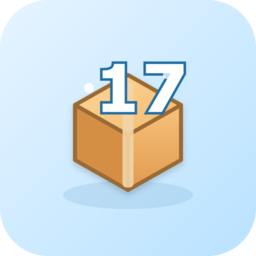
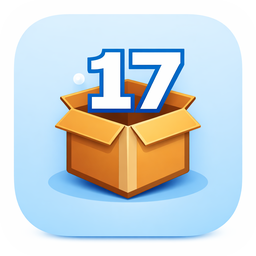
feat(17track_app): actualizar addon y agregar documentacion

diff --git a/17track_app/DOCS.md b/17track_app/DOCS.md
@@ -1,0 +1,64 @@
+# 17Track App - Documentacion
+
+## Opciones
+
+```yaml
+port: 8787
+bg_enabled: true
+bg_interval_min: 15
+bg_normal_interval_min: 45
+bg_slow_hours: "8,20"
+bg_delay_ms: 5000
+ha_url: "http://supervisor/core"
+ha_script: "jarvis_17track_notify"
+track17_token: "..."
+ha_token: "..."
+```
+
+## Variables y comportamiento
+
+- `track17_token` (obligatorio): token para API 17Track.
+- `ha_token` (recomendado/obligatorio si usas notificaciones a HA): token de HA.
+- `ha_url`: endpoint base de HA para servicios (`/api/services/...`).
+- `bg_enabled`: activa refresco periodico.
+- `bg_interval_min`: frecuencia del scheduler en minutos.
+- `bg_normal_interval_min`: refresco normal cuando hay pendientes.
+- `bg_slow_hours`: horas (CSV) de refresco cuando todo esta entregado.
+- `bg_delay_ms`: retraso entre trackings en refresco.
+
+## Endpoints utiles
+
+- `GET /health`
+- `GET /api/owner/:owner/trackings`
+- `POST /api/owner/:owner/tracking`
+- `DELETE /api/owner/:owner/tracking/:tracking`
+- `POST /api/owner/:owner/tracking/:tracking/override`
+- `POST /api/owner/:owner/refresh_if_needed`
+
+## Logging
+
+La app emite logs de:
+
+- Inicio/fin de peticiones HTTP.
+- Operaciones de add/delete/override.
+- Llamadas externas a 17Track (`status`, `api_code`, `duration_ms`).
+- Errores y timeouts.
+
+Nivel de log via variable de entorno `APP_LOG_LEVEL`:
+
+- `debug`
+- `info` (default)
+- `warn`
+- `error`
+
+## Troubleshooting
+
+1. Si no borra un tracking:
+- confirma que el tracking en `DELETE` coincide exacto con `GET /trackings`.
+
+2. Si no aparecen estados:
+- revisa `track17_token`.
+- revisa conectividad saliente del contenedor.
+
+3. Si falla notificacion en HA:
+- revisa `ha_url`, `ha_token` y `ha_script`.

diff --git a/agent_runner/DOCS.md b/agent_runner/DOCS.md
@@ -1,0 +1,50 @@
+# Agent Runner - Docs
+
+## Objetivo
+
+`Agent Runner` es un add-on de Home Assistant para ejecutar automatizaciones web (Playwright) mediante una API HTTP simple y con persistencia en `/data`.
+
+## Endpoints
+
+- `GET /health`: estado del servicio
+- `GET /jobs`: lista de jobs disponibles
+- `POST /run/{job_name}`: ejecuta un job
+
+Ejemplo:
+
+```bash
+curl -X POST "http://<ip-ha>:8099/run/workday_flow" \
+  -H "Content-Type: application/json" \
+  -d '{"supervision": true, "run_id": "manual-001", "payload": {}}'
+```
+
+## Opciones del add-on
+
+- `job_secret`: secreto opcional para proteger disparos remotos
+- `hass_webhook_url_status`: webhook para eventos intermedios
+- `hass_webhook_url_final`: webhook para resultado final
+- `sso_email`: email para autocompletar en flujos SSO
+- `target_url`: URL objetivo de la automatizacion
+- `timezone`: zona horaria local para ventanas temporales
+
+## Persistencia
+
+El add-on persiste datos en `/data`:
+
+- `/data/options.json`: opciones del add-on
+- `/data/runs/...`: artefactos por ejecucion (capturas, html)
+- `/data/storage/...`: estado reutilizable (por job)
+
+## Operativa recomendada
+
+1. Configurar `target_url` y `timezone`.
+2. Probar `GET /health`.
+3. Lanzar un run manual y revisar logs.
+4. Conectar `hass_webhook_url_status`/`final` a automatizaciones de HA (Telegram, notificaciones, etc.).
+
+## Troubleshooting
+
+- Si no arranca: revisar logs del add-on y valores en `config.yaml`.
+- Si falla login/SSO: comprobar `sso_email`, estado de sesión y selectores.
+- Si no hay notificaciones: validar URLs de webhook y conectividad desde el contenedor.
+- Si falla horario esperado: revisar `timezone` del add-on.

diff --git a/17track_app/README.md b/17track_app/README.md
@@ -1,0 +1,39 @@
+# Home Assistant Add-on: 17Track App
+
+Servidor Node.js para consultar y gestionar envios de 17Track desde Home Assistant.
+
+## Caracteristicas
+
+- API REST para listar, anadir y borrar trackings por owner.
+- Override manual de estado delivered por tracking.
+- Refresco en background configurable.
+- Integracion con script de Home Assistant para notificaciones.
+- Logs operativos con nivel configurable (`APP_LOG_LEVEL`).
+
+## Instalacion
+
+1. En Home Assistant, abre **Settings -> Add-ons -> Add-on Store**.
+2. Añade tu repositorio: `https://github.com/sanher/sanher-ha-addons`.
+3. Instala **17Track App**.
+4. Configura opciones (especialmente `track17_token`).
+5. Inicia el add-on.
+
+## Configuracion rapida
+
+Campos importantes:
+
+- `track17_token`: token de API de 17Track (obligatorio).
+- `ha_token`: Long-Lived Access Token de Home Assistant para llamadas a servicios.
+- `ha_script`: nombre del script de HA que recibira avisos (sin prefijo `script.`).
+- `bg_enabled`: activa/desactiva refresco automatico.
+- `APP_LOG_LEVEL` (env): `debug`, `info`, `warn`, `error`.
+
+Documentacion completa: [DOCS.md](./DOCS.md)
+
+## Soporte
+
+Si hay un problema, revisa primero los logs del add-on y valida:
+
+- `track17_token` correcto.
+- `ha_token` correcto.
+- `ha_url` accesible desde el contenedor.

diff --git a/agent_runner/README.md b/agent_runner/README.md
@@ -1,0 +1,32 @@
+# Agent Runner (Home Assistant add-on)
+
+Este repositorio está preparado para ejecutarse como add-on de Home Assistant.
+
+## Variables desde configuración del add-on
+
+Se inyectan a través de `options`/`schema` en `config.yaml`:
+
+- `job_secret`
+- `hass_webhook_url_status` (feedback por paso; útil para Telegram vía automatización HA)
+- `hass_webhook_url_final` (resultado final)
+- `sso_email`
+- `target_url`
+- `timezone` (zona horaria para calcular ventanas, p.ej. `Europe/Madrid`)
+
+El directorio persistente siempre es `/data`.
+
+Las ventanas horarias se calculan **dentro del contenedor** usando la hora local del servidor/add-on (configurable con `timezone`), por lo que no hacen falta llamadas externas para calcular horarios.
+
+## Endpoints
+
+- `GET /health`
+- `GET /jobs`
+- `POST /run/{job_name}`
+
+## Flujo incluido
+
+- `workday_flow`:
+  - primer click (`Icon-play`) aleatorio entre 06:58 y 08:31,
+  - segundo click (`Icon-pause`) tras 4h + ventana aleatoria de 45m,
+  - tercer click (`Icon-play`) entre 14m30s y 15m59s después,
+  - último click (`Icon-stop`) aleatorio entre 7h y 7h45 desde el primero.

diff --git a/README.md b/README.md
@@ -1,0 +1,17 @@
+# Sanher HA Add-ons
+
+Repositorio de add-ons personalizados para Home Assistant.
+
+## Añadir repositorio
+
+En Home Assistant:
+
+1. `Settings -> Add-ons -> Add-on Store`
+2. Menu de tres puntos -> `Repositories`
+3. Añadir: `https://github.com/sanher/sanher-ha-addons`
+
+## Add-ons disponibles
+
+- `17Track App`: servidor Node para gestion de paquetes y refresco en background.
+
+- `Agent Runner`: runner de automatizaciones IA/web con API y persistencia en /data.

diff --git a/agent_runner/CHANGELOG.md b/agent_runner/CHANGELOG.md
@@ -1,0 +1,9 @@
+# Changelog
+
+## 0.2.0
+
+- Se añade el add-on `Agent Runner` con API HTTP (`/health`, `/jobs`, `/run/{job_name}`).
+- Flujo inicial `workday_flow` para automatizacion web con ventanas horarias.
+- Persistencia de artefactos y estado en `/data`.
+- Soporte de webhooks de estado y resultado final para integracion con Home Assistant.
+- Imagen basada en Playwright Python para automatizacion de navegador.

diff --git a/17track_app/CHANGELOG.md b/17track_app/CHANGELOG.md
@@ -1,0 +1,9 @@
+# Changelog
+
+## 0.3.0
+
+- Estabilizado flujo `add/delete` de trackings.
+- Mejoras de persistencia en storage y normalizacion de keys.
+- Registro en 17Track durante add (con control de strict mode).
+- Logging estructurado para operaciones HTTP y llamadas a 17Track.
+- Anadidos `icon.png` y `logo.png` para el add-on.
